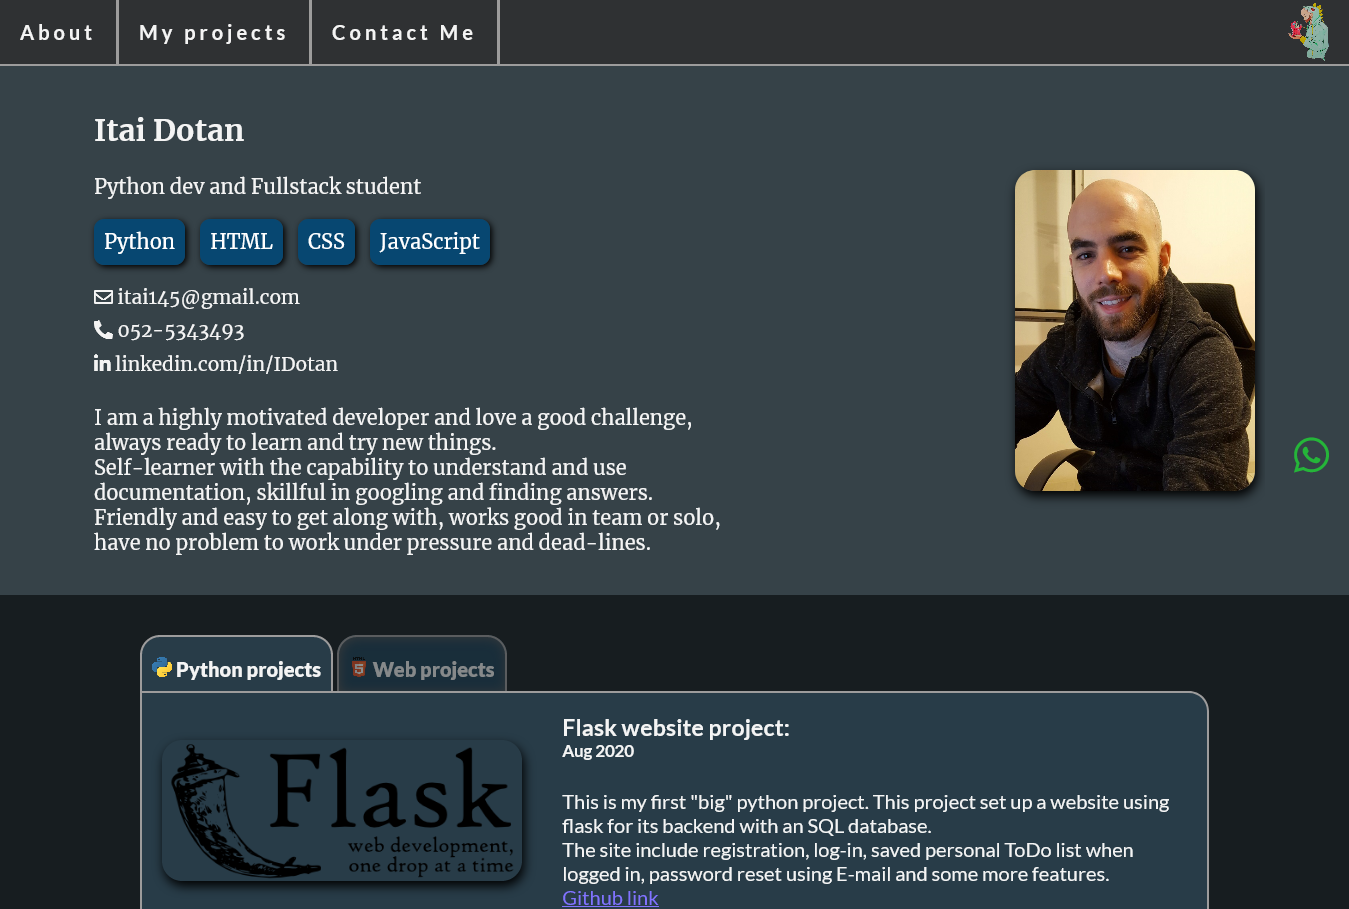
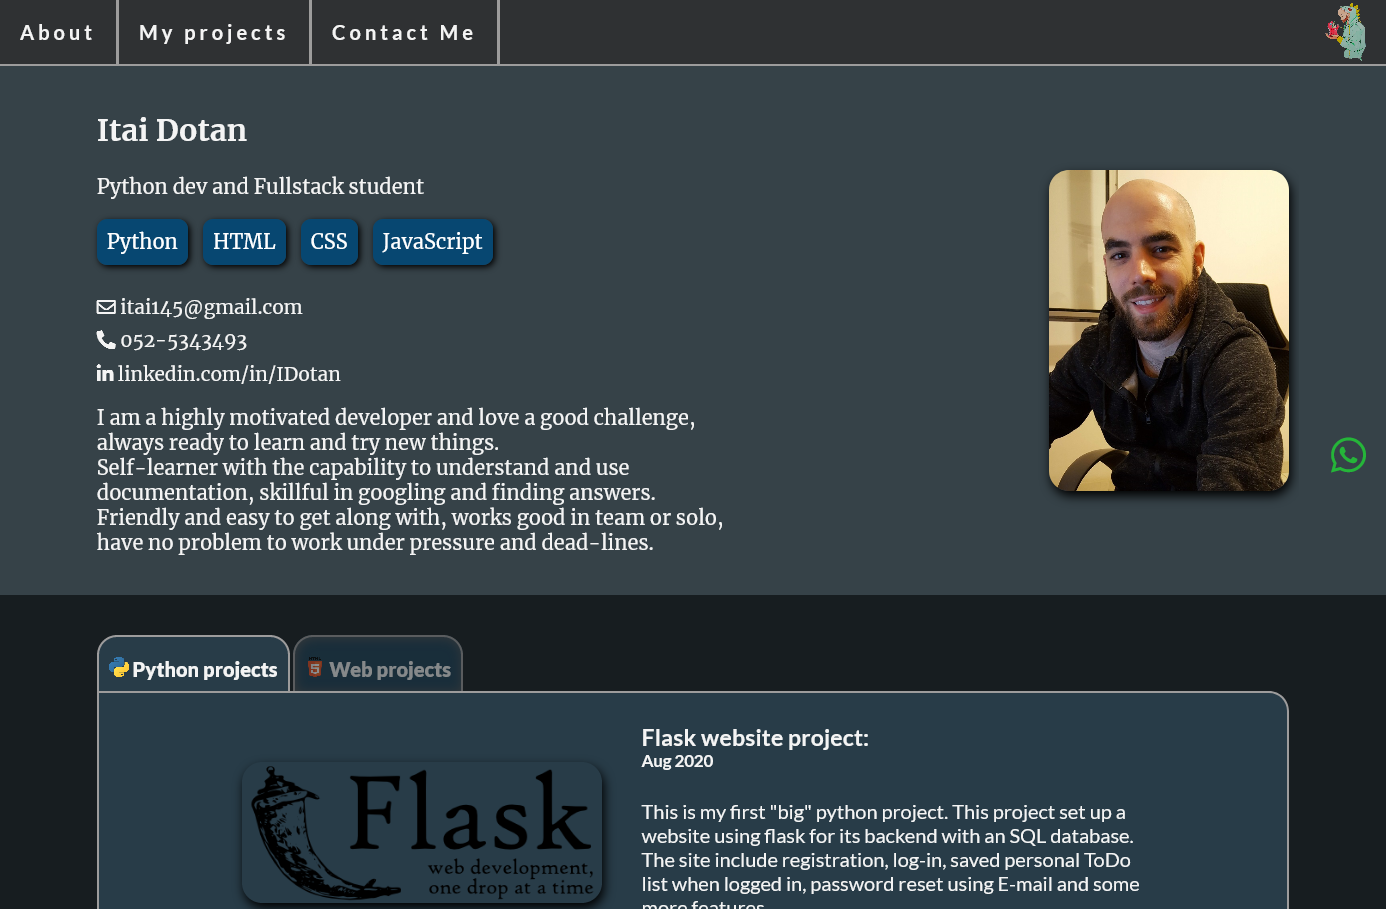
add desktop and mobile display

diff --git a/index.html b/index.html
@@ -141,7 +141,21 @@
 
                         <div id="web_projects">
                             <div class="project_info hide">
-                                <img src="static/img/cv.png" alt="cs site screenshot">
+                                <div class="pc_mobile_continer">
+                                    <div class="pc_mobile_display">
+                                        <div class="desktop_project">
+                                            <img src="static/img/Computer-Monitor-Transparent.png"
+                                                alt="Computer monitor">
+                                            <div class="Computer_monitor_display">
+                                                <img src="static/img/cv.png" alt="cs site screenshot">
+                                            </div>
+                                        </div>
+                                        <div class="mobile_project">
+                                            <img src="static/img/mobile_tamplate.png" alt="Mobile tamplate">
+                                            <img src="static/img/cv_mobile.png" alt="cs site mobile">
+                                        </div>
+                                    </div>
+                                </div>
                                 <div class="project_text">
                                     <h3>CV site</h3>
                                     <h5>September 2021</h5>
@@ -152,13 +166,27 @@
                                         and
                                         some projects I have completed.
                                     </p>
-                                    <a href="https://github.com/IDotan/fullstackcourse/tree/main/ex5"
-                                        title="github link" target="_blank">Github link</a>
+                                    <a href="https://github.com/IDotan/heroku-git" title="github link"
+                                        target="_blank">Github link</a>
                                     <a id="cv_link" href="" title="site link" target="_blank">Site link</a>
                                 </div>
                             </div>
                             <div class="project_info hide">
-                                <img src="static/img/ptp_web.png" alt="point to point web screenshot">
+                                <div class="pc_mobile_continer">
+                                    <div class="pc_mobile_display">
+                                        <div class="desktop_project">
+                                            <img src="static/img/Computer-Monitor-Transparent.png"
+                                                alt="Computer monitor">
+                                            <div class="Computer_monitor_display">
+                                                <img src="static/img/ptp_web.png" alt="point to point web screenshot">
+                                            </div>
+                                        </div>
+                                        <div class="mobile_project">
+                                            <img src="static/img/mobile_tamplate.png" alt="Mobile tamplate">
+                                            <img src="static/img/ptp_web_mobile.png" alt="point to point web mobile">
+                                        </div>
+                                    </div>
+                                </div>
                                 <div class="project_text">
                                     <h3>PointToPoint web</h3>
                                     <h5>September 2021</h5>
@@ -174,7 +202,22 @@
                                 </div>
                             </div>
                             <div class="project_info hide">
-                                <img src="static/img/memory_game.png" alt="memory game screenshot">
+                                <div class="pc_mobile_continer">
+                                    <div class="pc_mobile_display">
+                                        <div class="desktop_project">
+                                            <img src="static/img/Computer-Monitor-Transparent.png"
+                                                alt="Computer monitor">
+                                            <div class="Computer_monitor_display">
+                                                <img src="static/img/memory_game.png" alt="memory game screenshot">
+                                            </div>
+                                        </div>
+                                        <div class="mobile_project">
+                                            <img src="static/img/mobile_tamplate.png" alt="Mobile tamplate">
+                                            <img src="static/img/memory_game_mobile.png"
+                                                alt="memory game mobile screenshot">
+                                        </div>
+                                    </div>
+                                </div>
                                 <div class="project_text">
                                     <h3>Memory card game</h3>
                                     <h5>october 2021</h5>

diff --git a/static/style/index.css b/static/style/index.css
@@ -49,6 +49,7 @@ a:visited {
     from {
         overflow: hidden;
     }
+
     to {
         overflow: visible;
     }
@@ -68,10 +69,12 @@ a:visited {
     0% {
         top: 0;
     }
+
     80% {
         top: 0;
         opacity: 1;
     }
+
     100% {
         top: 0;
         opacity: 0;
@@ -94,10 +97,12 @@ a:visited {
     0% {
         transform: translate(-50%, -50%) rotate(0deg);
     }
+
     50% {
         transform: translate(-50%, -50%) rotate(180deg);
         opacity: 0;
     }
+
     100% {
         transform: translate(-50%, -50%) rotate(360deg);
     }
@@ -321,6 +326,7 @@ header .logo {
     from {
         left: -14em;
     }
+
     to {
         left: 0em;
     }
@@ -344,9 +350,11 @@ header .logo {
     0%, 35% {
         transform: rotate(0deg);
     }
+
     5%, 15%, 25% {
         transform: rotate(20deg);
     }
+
     10%, 20%, 30% {
         transform: rotate(-20deg);
     }
@@ -469,12 +477,57 @@ header .logo {
     margin-bottom: 0;
 }
 
-.project_info>img {
+.project_info>img, .project_info>.pc_mobile_continer {
     width: 95%;
     max-width: 25em;
     border-radius: 1em;
     align-self: center;
     box-shadow: 2px 5px 10px var(--boxshdow-color);
+    flex: 0 0 auto;
+}
+
+.pc_mobile_continer {
+    padding: 0.5em;
+}
+
+.pc_mobile_display {
+    position: relative;
+}
+
+.desktop_project>img:nth-of-type(1) {
+    position: relative;
+    width: 100%;
+    z-index: 1;
+}
+
+.desktop_project>.Computer_monitor_display {
+    position: absolute;
+    width: 92%;
+    height: 70%;
+    margin: 3% 4%;
+    top: 0;
+    overflow: hidden;
+}
+
+.Computer_monitor_display>img, .mobile_project>img:nth-of-type(1) {
+    width: 100%;
+}
+
+.mobile_project {
+    position: absolute;
+    z-index: 1;
+    bottom: 0;
+    right: 0.5em;
+    width: 25%;
+}
+
+.mobile_project>img:nth-of-type(2) {
+    position: absolute;
+    width: 100%;
+    right: 0;
+    height: 84%;
+    padding-top: 18%;
+    z-index: -1;
 }
 
 /* whatsapp */
@@ -544,6 +597,7 @@ footer {
     0%, 100% {
         transform: translateY(-50%) scale(1, 0.6)
     }
+
     50% {
         transform: translateY(-95%) scale(0.8, 0.9)
     }
@@ -553,32 +607,39 @@ footer {
     :root {
         font-size: 20px;
     }
+
     /* navbar desktop */
     header label {
         display: none;
     }
+
     nav {
         position: relative;
         left: 0px;
         opacity: 1;
     }
+
     nav a {
         padding: 1em 1em;
         border-right: 0.15em solid var(--boarder-color);
     }
+
     /* about styles desktop */
     #about {
         flex-flow: nowrap;
         width: 85vw;
     }
+
     /* projects section desktop */
     .project_info {
         flex-flow: nowrap;
         width: 80%;
     }
-    .project_info>img {
+
+    .project_info>img, .project_info>.pc_mobile_continer {
         width: 18em;
     }
+
     /* contact me desktop */
     #contact_me>.contact_links {
         flex-direction: row;
